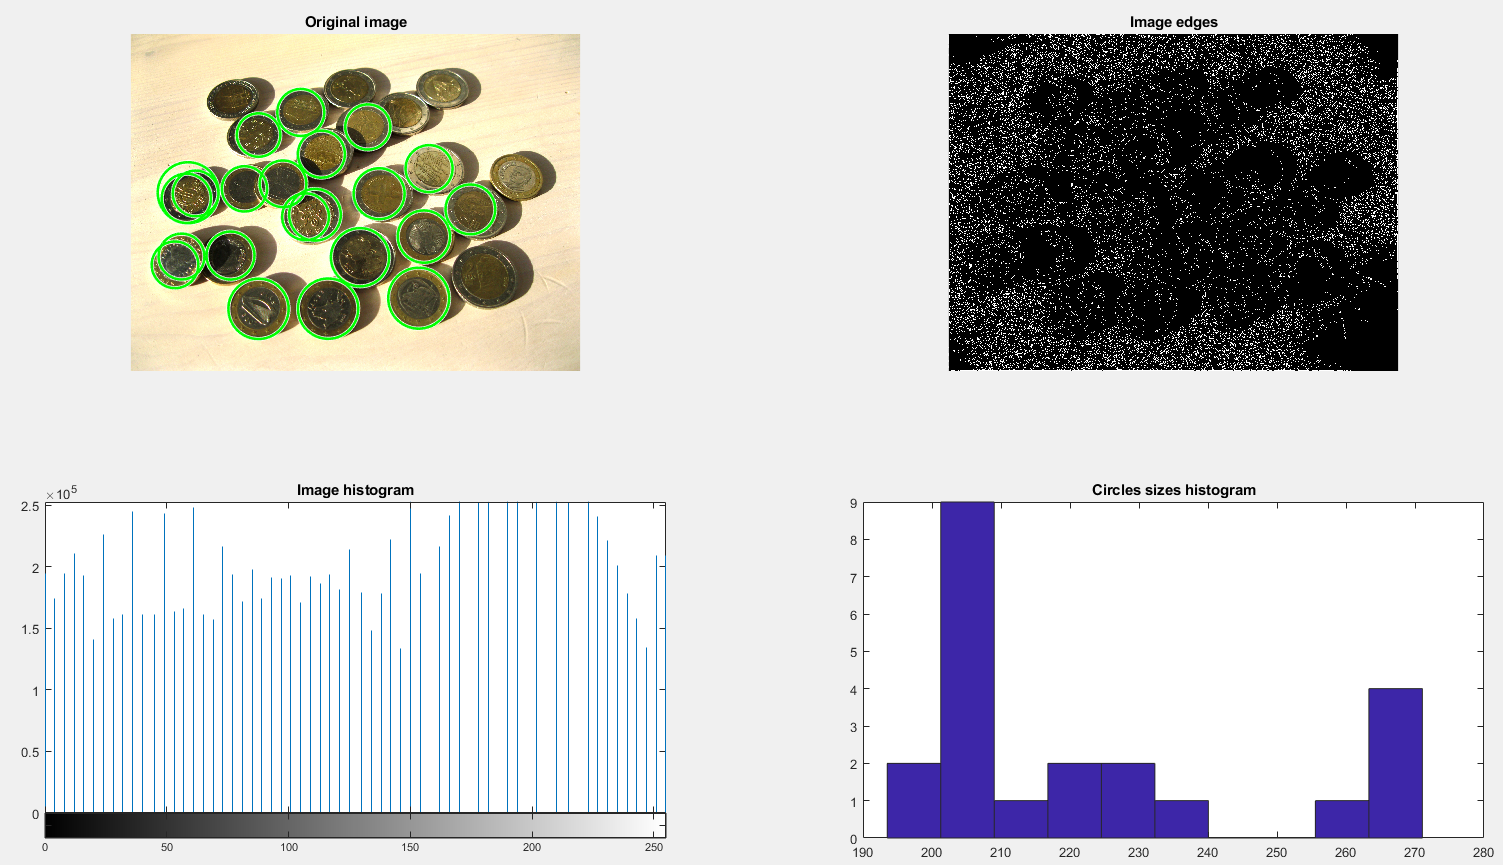
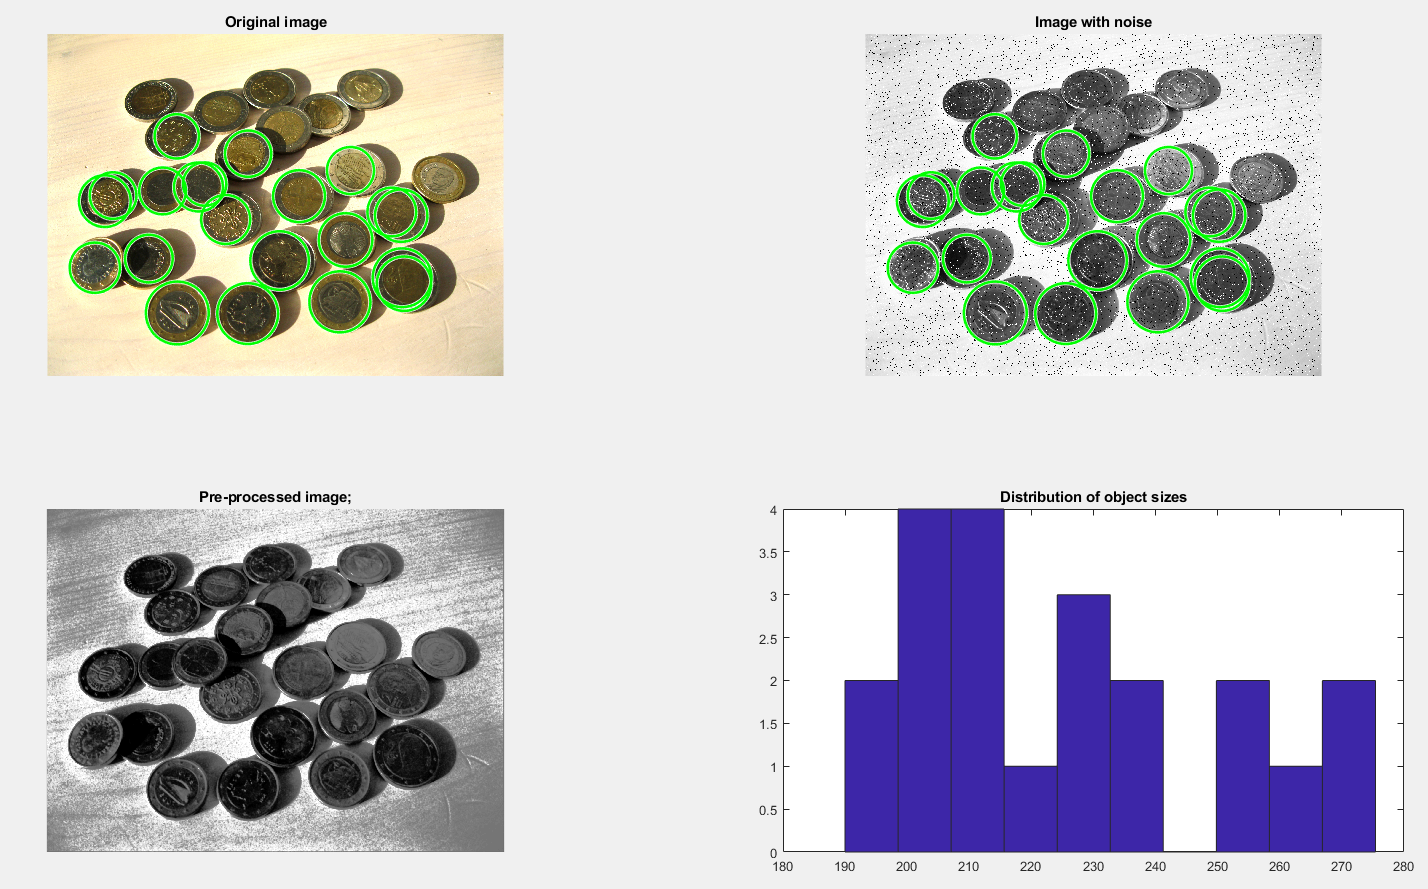
Correções finais; update de imagens

diff --git a/Tutorial 2/main_image_recognition.m b/Tutorial 2/main_image_recognition.m
@@ -14,23 +14,29 @@ function result = main_image_recognition(original,imagetype,imageGreyScale,typeO
 
     eqImage = histeq(filteredImage);
 
-    edgeImage = edge(eqImage, 'canny');
-
     if (imagetype == 1)
+        edgeImage = edge(filteredImage, 'canny');
+        eqImage = filteredImage;
+        
         [centers,radii] = imfindcircles(edgeImage,[60 100],'Sensitivity', 0.96);
         
     elseif (imagetype == 2)
+        edgeImage = edge(eqImage, 'canny');
+        
         [centers,radii] = imfindcircles(edgeImage,[180 280],'Sensitivity', 0.97);
         
     else
+        edgeImage = edge(eqImage, 'canny');
+        
         [centers,radii] = imfindcircles(edgeImage,[230 300],'Sensitivity', 0.98);
     end
         
-    subplot(2,2,1),imshow(imagem); title('Original image');
+    subplot(2,2,1),imshow(original); title('Original image');
     viscircles(centers, radii,'EdgeColor','g');
-    subplot(2,2,2),imshow(edgeImage); title('Image edges');
-    subplot(2,2,3),imhist(eqImage); title('Image histogram');
-    subplot(2,2,4),hist(radii); title('Circles sizes histogram');
+    subplot(2,2,2),imshow(noiseImage); title('Image with noise');
+    viscircles(centers, radii,'EdgeColor','g');
+    subplot(2,2,3),imshow(eqImage); title('Pre-processed image;');
+    subplot(2,2,4),hist(radii); title('Distribution of object sizes');
 
     result = 1;
 end

diff --git a/Tutorial 2/image_recognition.m b/Tutorial 2/image_recognition.m
@@ -10,7 +10,7 @@ elseif (imagem==3)
     image = imread('Images\coins3.jpg','jpg');
 else
     fprintf('Error\n');
-    %exit;
+    exit;
 end
 
 imageGreyScale = rgb2gray(image);
@@ -26,7 +26,7 @@ elseif (typeOfNoise==2)
     % Ask for the variance
     noiseArg = input('What is the variance desired?\n  Type "-1" for default values\n:');
 else
-    fprintf('Error');
+    fprintf('Error\n');
     exit;
 end
 
